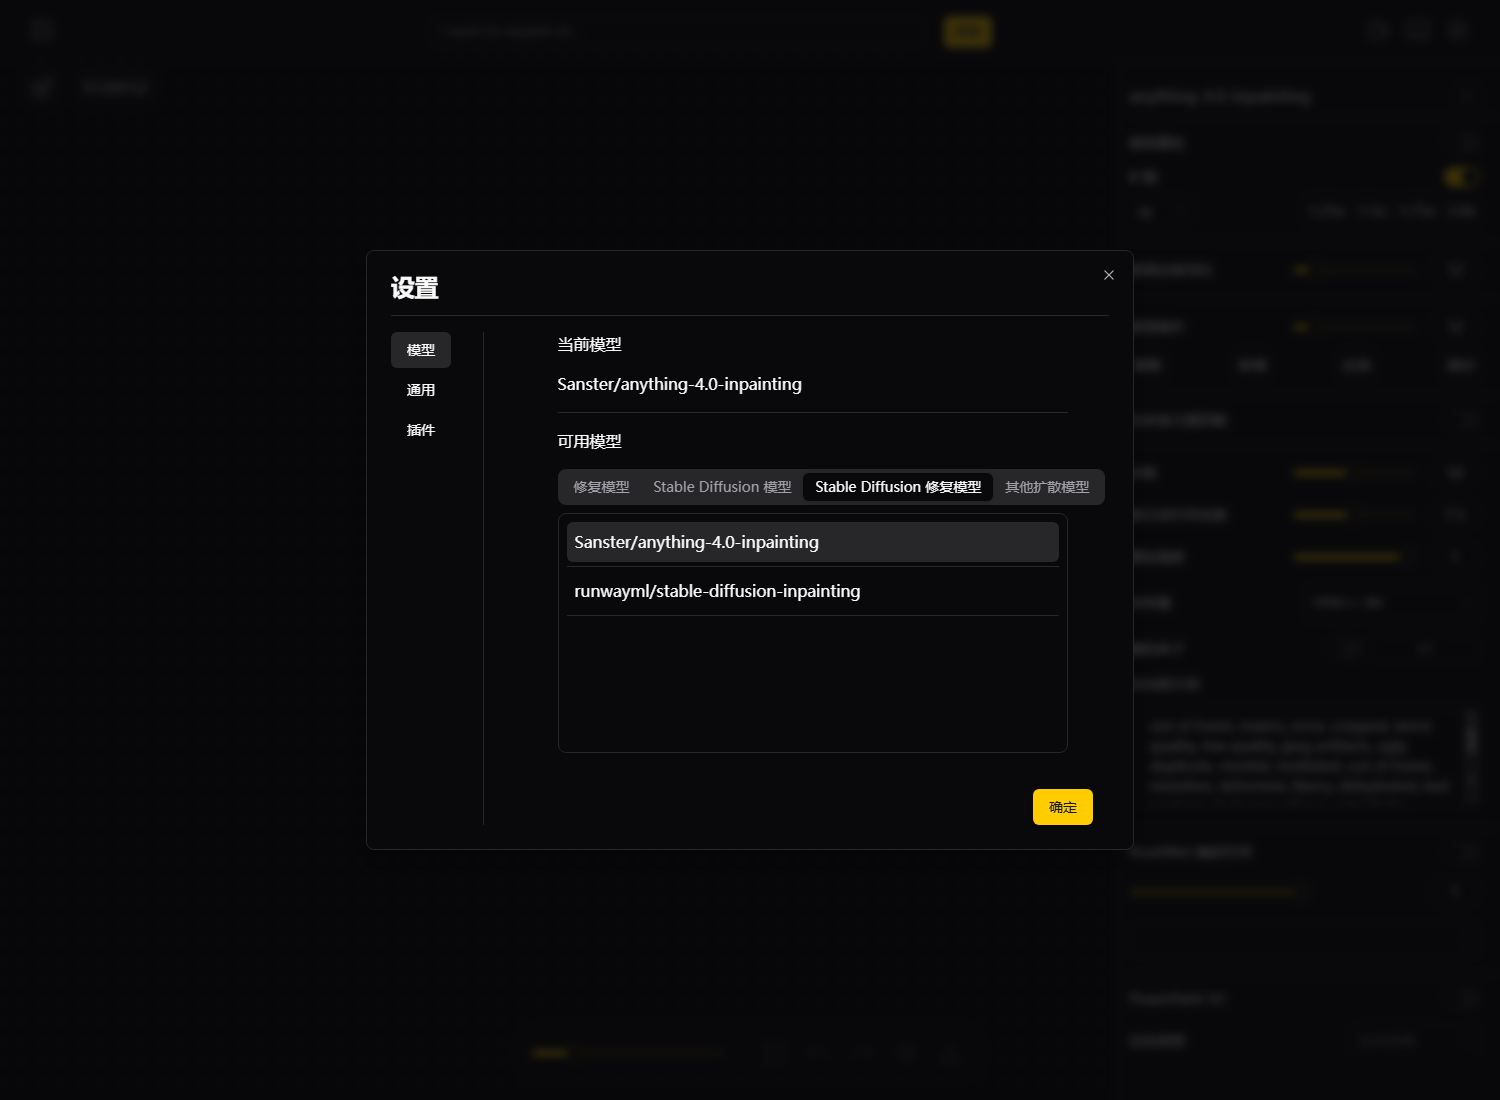
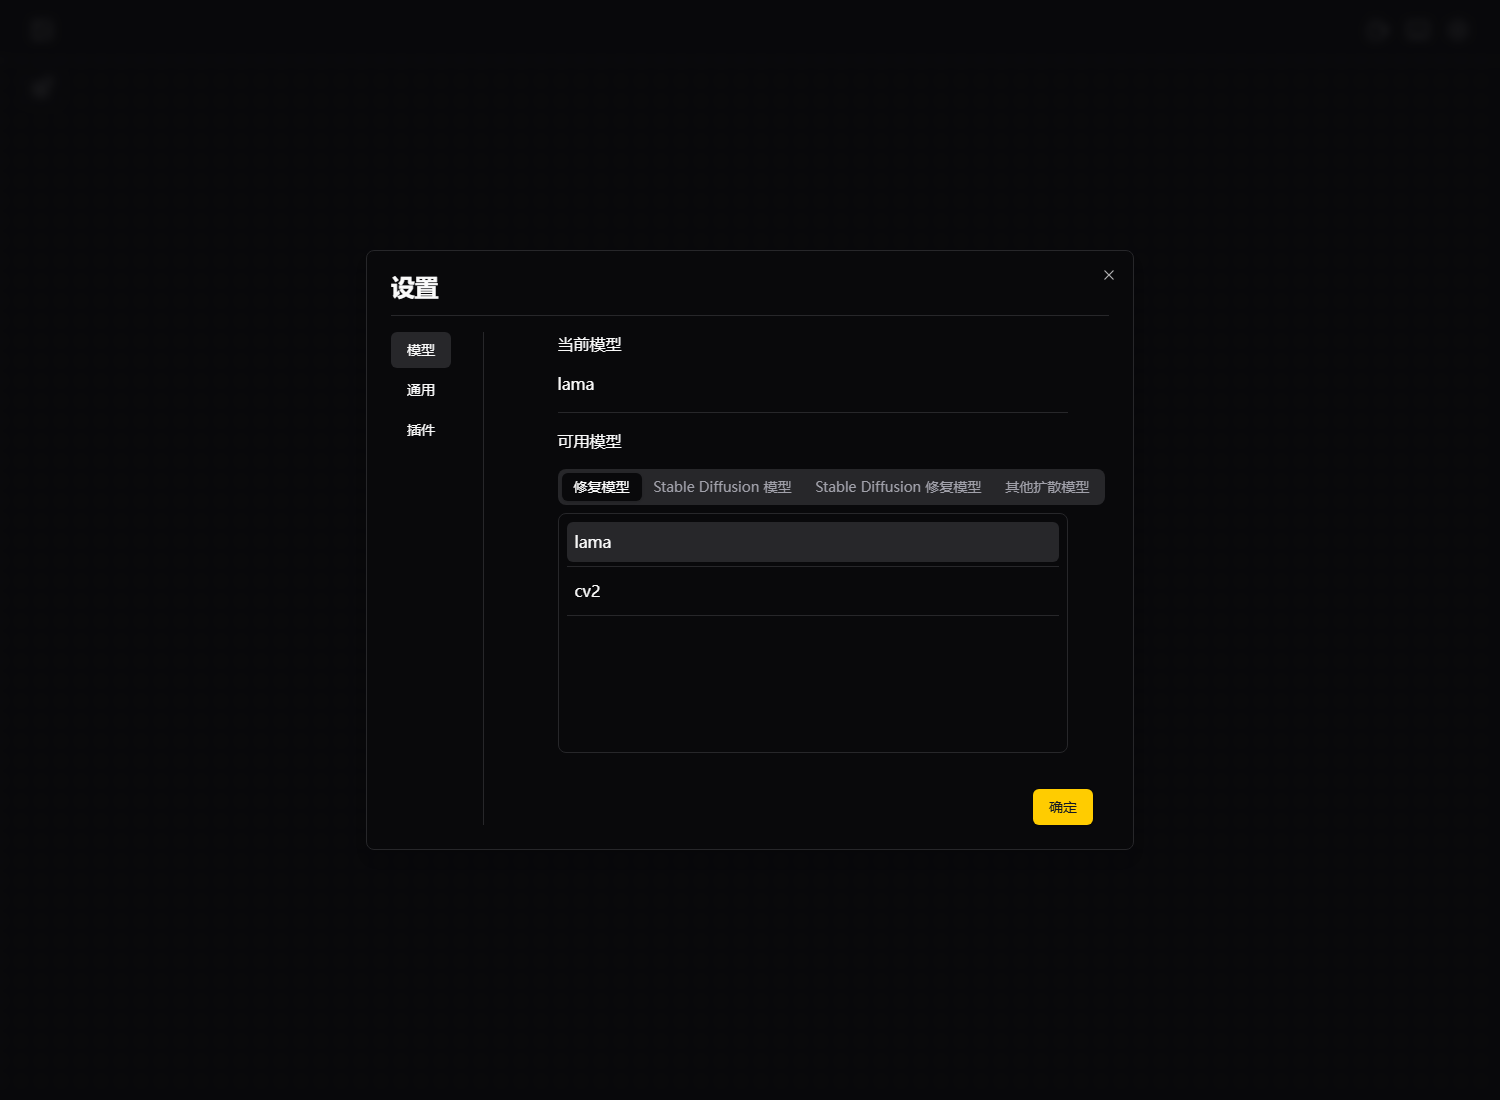
docs: 隐私审查——移除本机路径与硬件指纹，替换为真实状态截图

diff --git a/README.md b/README.md
@@ -51,7 +51,7 @@ certutil -hashfile IOPaint-zh-portable-B-v1.0.zip SHA256
 1. 下载后解压到**纯英文、无空格**的路径（例如 `D:\IOPaint-zh`）——中文路径会导致模型加载失败
 2. 双击 `启动 IOPaint（擦除增强）.bat`（换物体/扩图请用 `启动 IOPaint（SD 换物·扩图）.bat`）
 3. 浏览器自动打开 http://127.0.0.1:8080
-4. 显卡需 NVIDIA（已测 RTX 4060 Laptop 8GB）；无显卡可把脚本里 `--device cuda` 改成 `--device cpu`
+4. 显卡需 NVIDIA（8GB 显存即可流畅；6GB 建议只用擦除模式）；无独显可把脚本里 `--device cuda` 改成 `--device cpu`
 
 整合包内附 `VERSION.txt`（记录版本构成）；SHA-256 见上表。遇到闪退多为缺 VC 运行库：
 <https://aka.ms/vs/17/release/vc_redist.x64.exe>
@@ -63,8 +63,8 @@ certutil -hashfile IOPaint-zh-portable-B-v1.0.zip SHA256
 
 ## 安装
 ```bash
-# 用装了 iopaint 的那个 Python 执行
-D:\ai-models\venv-iopaint\Scripts\python.exe apply.py
+# 用「装了 iopaint 的那个 Python」执行（venv 里的 python.exe 或系统 python）
+python apply.py
 # 然后刷新浏览器（Ctrl+F5）即可
 ```
 
@@ -104,19 +104,8 @@ python apply.py --uninstall  # 还原英文原版
 
 **159 条词条已用「逐条注入 DOM 比对」方式全量回归：159/159 生效，0 条失效。**
 **9 条动态消息正则（插件运行完成、模型切换、遮罩尺寸不符、图片数量等）逐条验证通过。**
-复核环境：Windows 11 + RTX 4060 Laptop + IOPaint 1.6.0，分别在「擦除模型」「SD1.5 真实推理」「5 个插件全开」「目录模式」四种实机上逐屏抓取渲染文本，**残留英文 0 条**（模型 ID / 采样器名 / 品牌名除外）。
+复核环境：Windows 11 + NVIDIA 8GB 显存显卡 + IOPaint 1.6.0，分别在「擦除模型」「SD1.5 真实推理」「5 个插件全开」「目录模式」四种实机上逐屏抓取渲染文本，**残留英文 0 条**（模型 ID / 采样器名 / 品牌名除外）。
 （注意：BrushNet/ControlNet 的子选项面板需后端开启对应能力才会出现，其文案已预先录入并在引擎层验证通过。）
-
-## 当前覆盖
-- 首页、拖拽上传、工具栏全部 tooltip
-- 设置对话框三个页签（模型 / 通用 / 插件）含全部说明文字
-- 快捷键说明对话框
-- 侧栏参数（画笔/反选/清空、裁剪重绘、BrushNet、ControlNet、LCM、扩图、
-  PowerPaint 任务、步数/引导/采样器/种子/遮罩羽化/直方图匹配、遮罩操作）
-- 文件管理器、交互式分割确认框、提示词输入、toast 提示
-
-**有意保留英文**：模型 ID（`lama`、`briaai/RMBG-1.4`）、采样器名（`DPM++ 2M`）、
-品牌名（RealESRGAN / BrushNet / PowerPaint / ControlNet / Stable Diffusion）。
 
 ## 技术要点
 - 精确匹配词表 + 正则规则（处理含变量的句子，如 `Run xxx successfully in 1.4s`）
